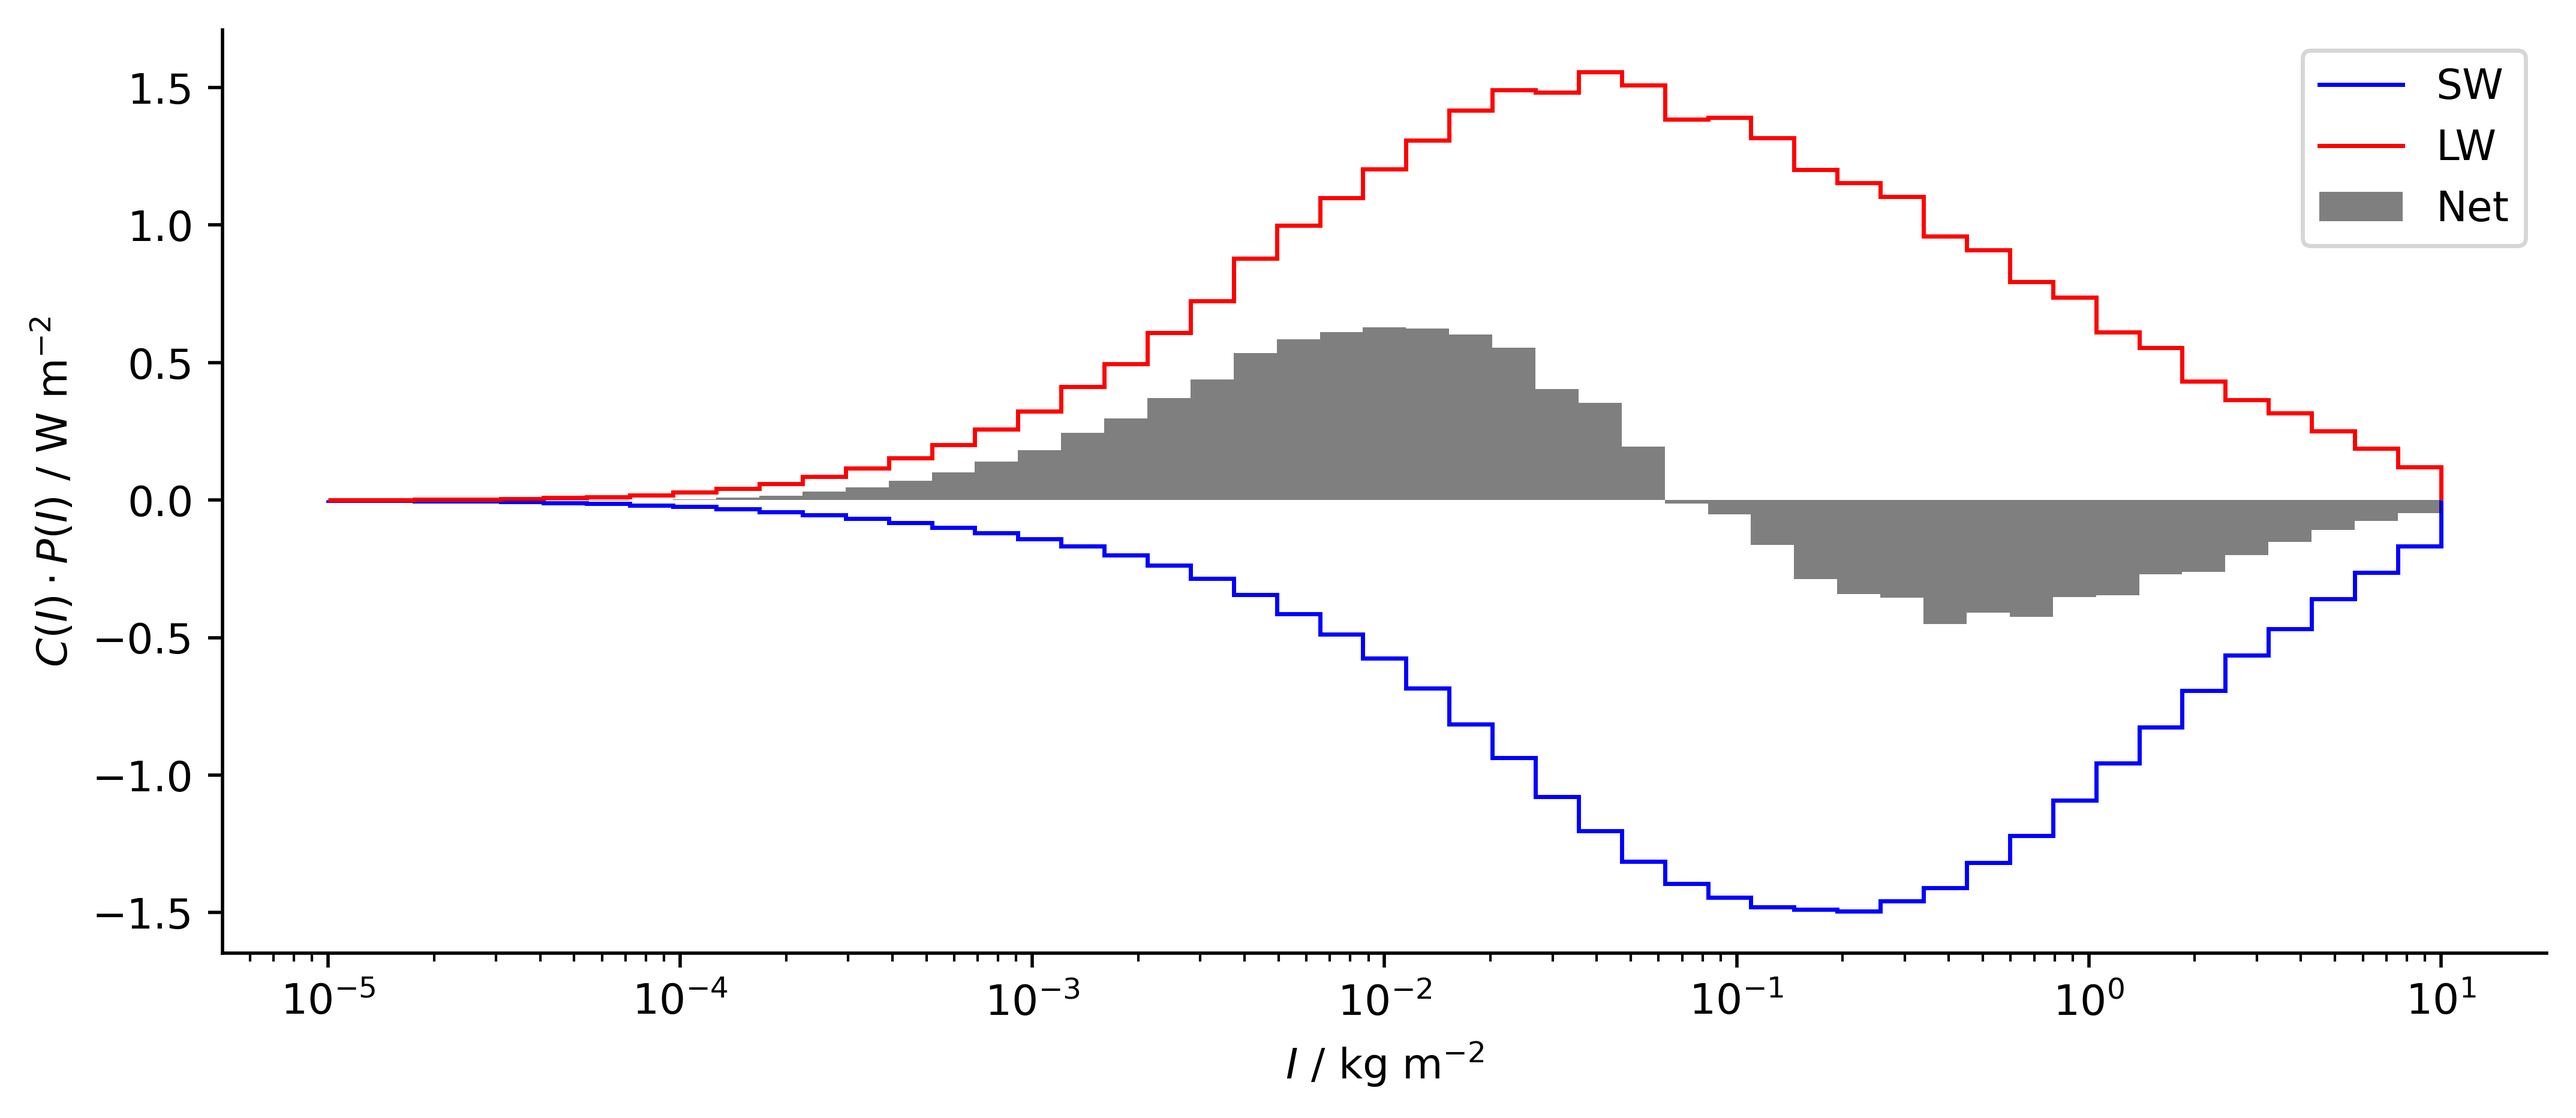
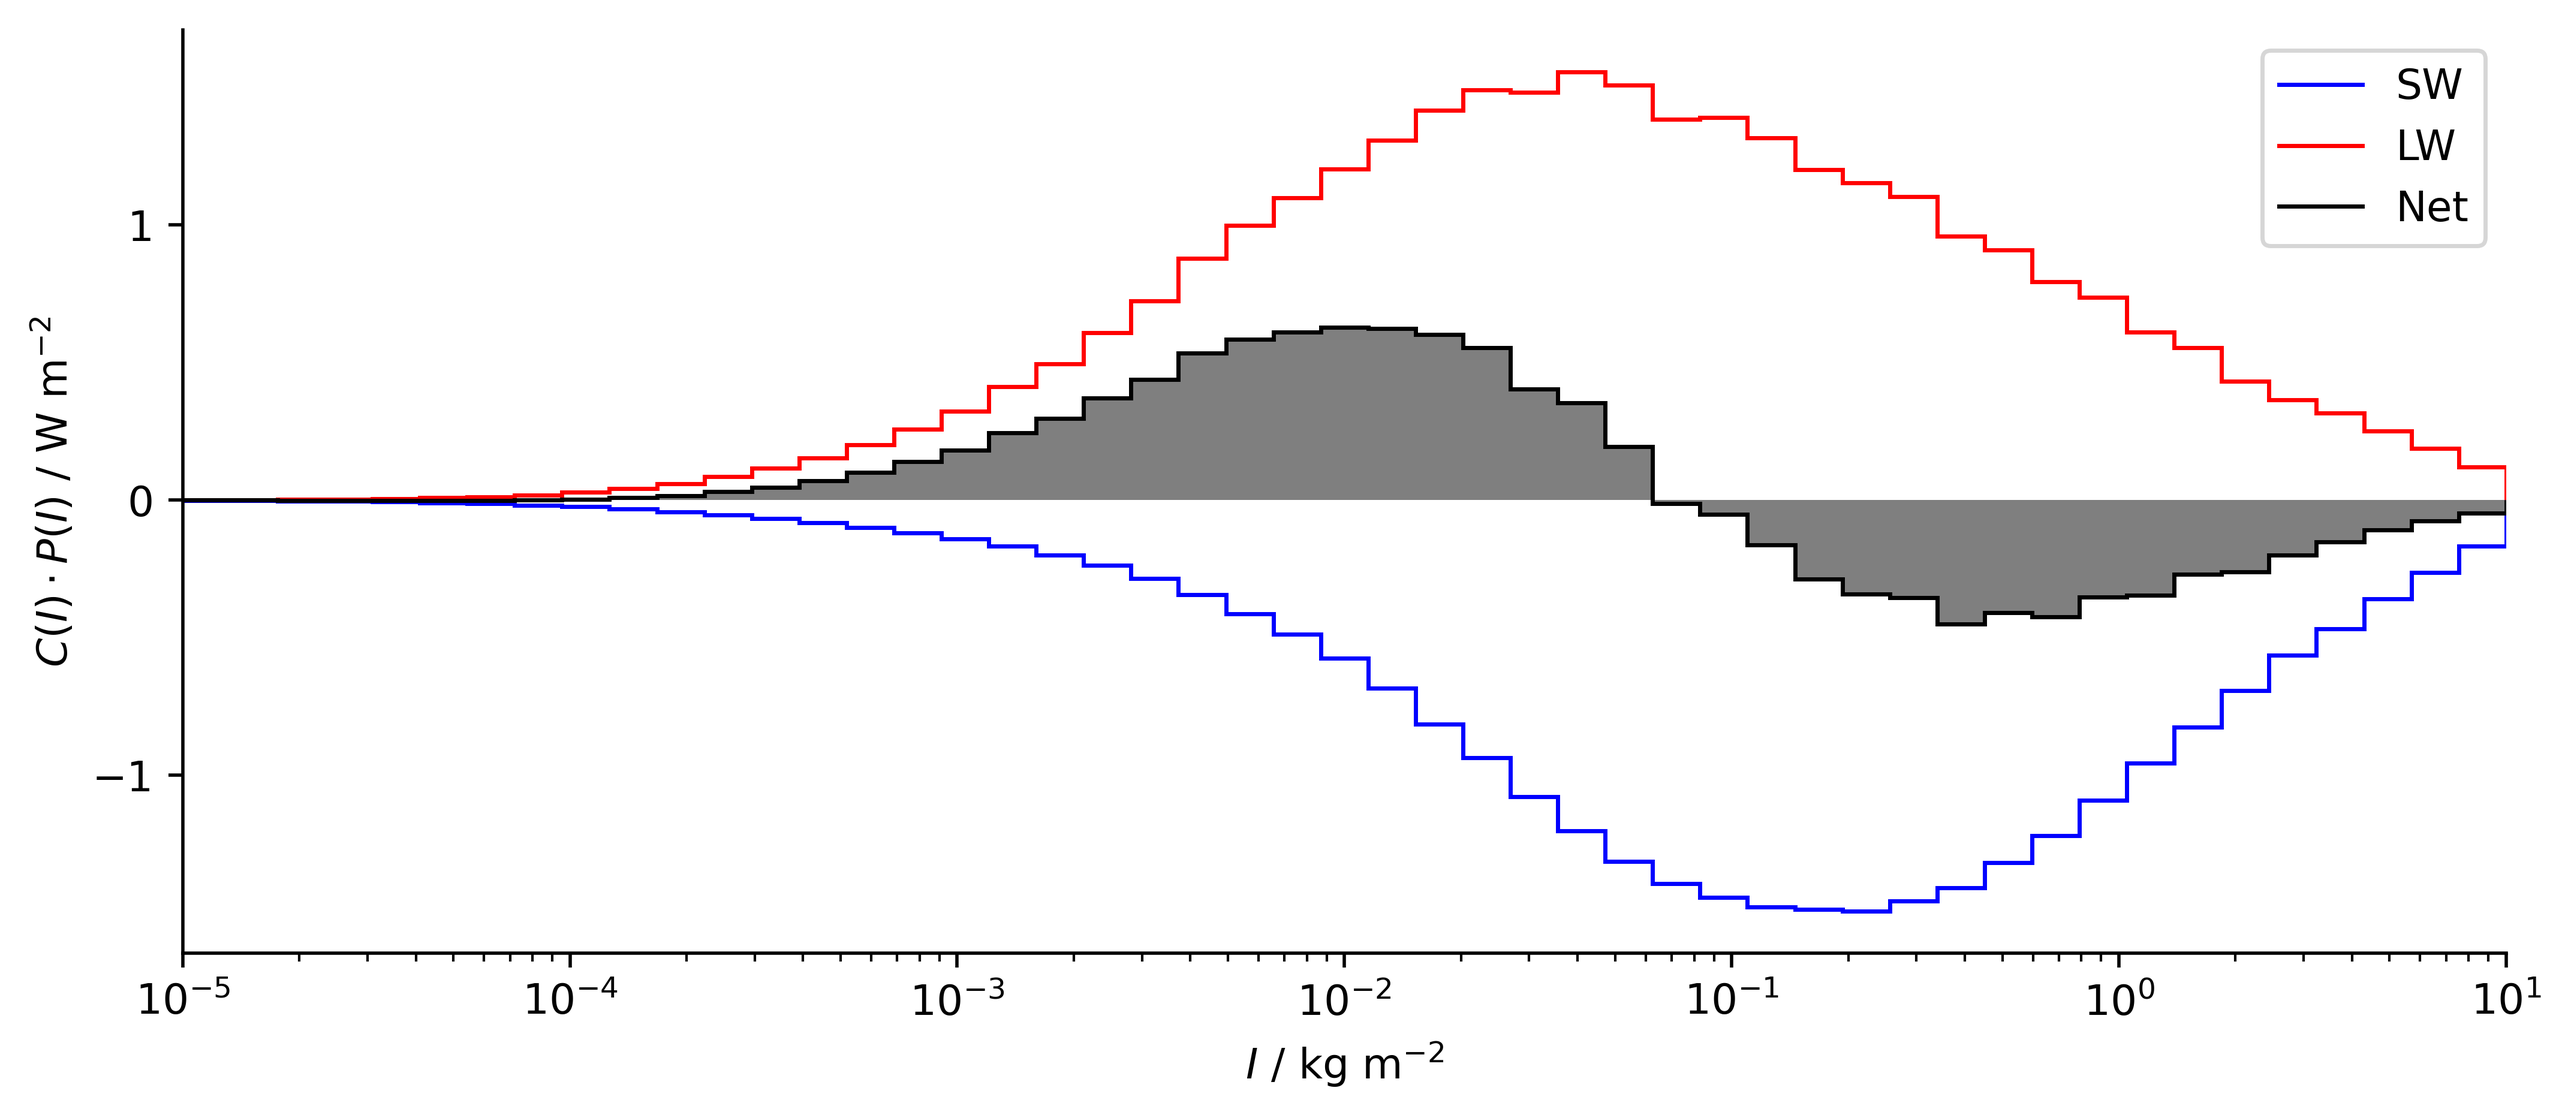
delete weighting of emissivity for fitting, adjust plots, import os for file removal to avoid permission nerrors

diff --git a/scripts/plot/paper/plot_folded_cre.py b/scripts/plot/paper/plot_folded_cre.py
@@ -22,14 +22,65 @@ cre_sw_weighted = hist * result['SW_cre']
 cre_lw_weighted = hist * result['LW_cre']
 cre_net_weighted = cre_sw_weighted + cre_lw_weighted
 
-# %% plot
-fig, ax = plt.subplots(1, 1, figsize=(10, 4))
+# %% plot all three in one figure
+fig, axes = plt.subplots(3, 1, figsize=(10, 6), height_ratios=[1, 1, 2], sharex=True)
+
+# plot cre 
+axes[0].axhline(0, color='grey', linestyle='--')
+axes[0].plot(result.index, result['SW_cre'], label='SW', color='blue')
+axes[0].plot(result.index, result['LW_cre'], label='LW', color='red')
+axes[0].plot(result.index, result['SW_cre'] + result['LW_cre'], label='Net', color='k')
+axes[0].set_yticks([-200, 0, 200])
+axes[0].set_ylabel('$C(I)$ / W m$^{-2}$')
+
+# plot IWP hist
+axes[1].stairs(hist, edges, color='k')
+axes[1].set_yticks([0, 0.02])
+axes[1].set_ylabel('$P(I)$')
+
+
+# plot cre weighted IWP hist
+axes[2].stairs(cre_sw_weighted, IWP_bins, color='blue', label='SW')
+axes[2].stairs(cre_lw_weighted, IWP_bins, color='red', label='LW')
+axes[2].stairs(cre_net_weighted, IWP_bins, color='k', label='Net', fill=True, alpha=0.5)
+axes[2].stairs(cre_net_weighted, IWP_bins, color='k', label='Net')
+axes[2].set_xscale('log')
+axes[2].set_xlabel('$I$ / kg m$^{-2}$')
+axes[2].set_ylabel(r"$C(I) \cdot P(I) ~ / ~ \mathrm{W ~ m^{-2}}$")
+axes[2].set_yticks([-1, 0, 1])
+axes[2].set_xlim(1e-5, 10)
+
+for ax in axes:
+    ax.spines['top'].set_visible(False)
+    ax.spines['right'].set_visible(False)
+
+# legend at bottom with labels from ax 0
+fig.subplots_adjust(bottom=0.1)
+fig.legend(
+    handles=axes[0].lines[1:],
+    labels=['SW', 'LW', 'net'],
+    bbox_to_anchor=(0.5, -0.05),
+    loc='center',
+    frameon=True,
+    ncols=3,
+)
+
+
+fig.savefig("plots/paper/concept_cre_all.png", dpi=500, bbox_inches='tight')
+
+# %% plot just P * C 
+fig, ax = plt.subplots(figsize=(10, 4))
+
+# plot cre weighted IWP hist
 ax.stairs(cre_sw_weighted, IWP_bins, color='blue', label='SW')
 ax.stairs(cre_lw_weighted, IWP_bins, color='red', label='LW')
-ax.stairs(cre_net_weighted, IWP_bins, color='k', label='Net', fill=True, alpha=0.5)
+ax.stairs(cre_net_weighted, IWP_bins, color='k', fill=True, alpha=0.5)
+ax.stairs(cre_net_weighted, IWP_bins, color='k', label='Net')
 ax.set_xscale('log')
 ax.set_xlabel('$I$ / kg m$^{-2}$')
 ax.set_ylabel(r"$C(I) \cdot P(I) ~ / ~ \mathrm{W ~ m^{-2}}$")
+ax.set_yticks([-1, 0, 1])
+ax.set_xlim(1e-5, 10)
 ax.spines['top'].set_visible(False)
 ax.spines['right'].set_visible(False)
 ax.legend()

diff --git a/scripts/plot/paper/lc_sensitivity.py b/scripts/plot/paper/lc_sensitivity.py
@@ -5,6 +5,7 @@ import xarray as xr
 import matplotlib.pyplot as plt
 import pandas as pd
 from src.read_data import load_parameters
+from scipy.stats import linregress
 # %% load data
 path = '/work/bm1183/m301049/iwp_framework/mons/model_output/'
 ensemble = pickle.load(open(path + 'lc_ensemble.pkl', 'rb'))
@@ -13,13 +14,9 @@ parameters = load_parameters()
 
 # %%
 
-def sum_cre(result, sample, iwp_bins, mode='icon'):
+def sum_cre(result, sample, iwp_bins):
 
-    if mode == 'icon':
-        n_cells = (len(sample.cell) * len(sample.time))
-    else:
-        n_cells = len(sample.lat) * len(sample.lon)
-
+    n_cells = sample['IWP'].count().values
     hist, edges = np.histogram(sample["IWP"].where(sample['mask_height']), bins=iwp_bins)
     hist = hist / n_cells
     sum_sw = (result["SW_cre"] * hist).sum()
@@ -37,9 +34,9 @@ IWP_bins = np.logspace(-5, 1, num=50)
 idx = [float(i) for i in list(ensemble.keys())]
 sum_cre_ensemble = pd.DataFrame(index=idx, columns=['SW', 'LW', 'net'])
 for key, result in ensemble.items():
-    sum_cre_ensemble.loc[float(key)]['SW'] = sum_cre(result, sample, IWP_bins, mode='arts')['SW']
-    sum_cre_ensemble.loc[float(key)]['LW'] = sum_cre(result, sample, IWP_bins, mode='arts')['LW']
-    sum_cre_ensemble.loc[float(key)]['net'] = sum_cre(result, sample, IWP_bins, mode='arts')['net']
+    sum_cre_ensemble.loc[float(key)]['SW'] = sum_cre(result, sample, IWP_bins)['SW']
+    sum_cre_ensemble.loc[float(key)]['LW'] = sum_cre(result, sample, IWP_bins)['LW']
+    sum_cre_ensemble.loc[float(key)]['net'] = sum_cre(result, sample, IWP_bins)['net']
 
 # %% plot sum_cre
 fig, ax = plt.subplots(figsize=(5, 4))
@@ -59,7 +56,7 @@ fig.savefig('plots/paper/lc_sensitivity.png', dpi=500, bbox_inches='tight')
 
 
 # %% numbers for lc fraction increase 
-cre = sum_cre_ensemble.iloc[3]['net']
-print(f'Net HCRE for 0.3 low cloud fraction: {cre:.2f} W m^-2')
+increase = (sum_cre_ensemble.loc[0.32]['net'] - sum_cre_ensemble.loc[0.16]['net']) / sum_cre_ensemble.loc[0.16]['net'] * 100
+print(f'Net HCRE increase for doubling of f: {increase:.2f}%')
 
 # %%

diff --git a/scripts/derive_model_relations/calculate_emissivity.py b/scripts/derive_model_relations/calculate_emissivity.py
@@ -8,6 +8,7 @@ from src.plot_functions import scatterplot
 from src.helper_functions import cut_data
 from scipy.optimize import least_squares
 import xarray as xr
+import os
 
 # %% load freddis data
 atms, fluxes_allsky, fluxes_noice = load_atms_and_fluxes()
@@ -58,21 +59,15 @@ nan_mask = ~np.isnan(y)
 x = x[nan_mask]
 y = y[nan_mask]
 
-# prepare weights
-n_cells = len(ds_monsoon.lat) * len(ds_monsoon.lon)
-hist, edges = np.histogram(ds_monsoon["IWP"].where(ds_monsoon["mask_height"]), bins=IWP_bins)
-hist = hist / n_cells
-hist = hist[nan_mask]
-
 #initial guess
-p0 = [3.25181808, -2.27406137]
+p0 = [-2.27406137, 3.25181808]
 
 def logistic(params, x):
     return 1 / (1 + np.exp(-params[1] * (x - params[0])))
 
 
 def loss(params):
-    return ((logistic(params, x) - y) * hist) / hist.sum()
+    return (logistic(params, x) - y) 
 
 res = least_squares(loss, p0)
 logistic_curve = logistic(res.x, np.log10(IWP_points))
@@ -100,11 +95,13 @@ ax.legend()
 # %% save coefficients as pkl file
 path = "/work/bm1183/m301049/iwp_framework/mons/"
 
-lw_vars.to_netcdf(path + "data/lw_vars.nc")
+os.remove(path + "data/lw_vars.nc")
+os.remove(path + "parameters/hc_emissivity_params.pkl")
+os.remove(path + "data/lw_vars_mean.pkl")
 
+lw_vars.to_netcdf(path + "data/lw_vars.nc")
 with open(path + "parameters/hc_emissivity_params.pkl", "wb") as f:
     pickle.dump(np.array([1., res.x[0], res.x[1]]), f)
-
 with open(path + "data/lw_vars_mean.pkl", "wb") as f:
     pickle.dump(mean_lw_vars, f)
 

diff --git a/scripts/plot/paper/cre_comparison.py b/scripts/plot/paper/cre_comparison.py
@@ -92,7 +92,7 @@ weighted_lw_cm = result["LW_cre"] * hist
 weighted_net_cm = weighted_sw_cm + weighted_lw_cm
 
 table_cre = pd.DataFrame(
-    index=["ARTS",  "Concept"], columns=["SW", "LW", "Net", "Net Percent"]
+    index=["ARTS",  "Concept"], columns=["SW", "LW", "Net", "Net Percent", "SW percent", "LW percent"]
 )
 table_cre.loc["ARTS"]["SW"] = np.round(
     float((cre_mean["connected_sw"] * hist).sum().values), 2
@@ -107,7 +107,13 @@ table_cre.loc["Concept"]["SW"] = np.round(float((result["SW_cre"] * hist).sum())
 table_cre.loc["Concept"]["LW"] = np.round(float((result["LW_cre"] * hist).sum()), 2)
 table_cre.loc["Concept"]["Net"] = table_cre.loc["Concept"]["SW"] + table_cre.loc["Concept"]["LW"]
 table_cre.loc["Concept"]["Net Percent"] = np.round(
-    ((table_cre.loc["Concept"]["Net"] - table_cre.loc["ARTS"]["Net"])/table_cre.loc['ARTS']['Net']) * 100, 0
+    ((table_cre.loc["Concept"]["Net"] - table_cre.loc["ARTS"]["Net"])/table_cre.loc['ARTS']['Net']) * 100, 2
+)
+table_cre.loc["Concept"]["SW percent"] = np.round(
+    ((table_cre.loc["Concept"]["SW"] - table_cre.loc["ARTS"]["SW"])/table_cre.loc['ARTS']['SW']) * 100, 2
+)
+table_cre.loc["Concept"]["LW percent"] = np.round(
+    ((table_cre.loc["Concept"]["LW"] - table_cre.loc["ARTS"]["LW"])/table_cre.loc['ARTS']['LW']) * 100, 2
 )
 table_cre
 

diff --git a/scripts/derive_model_relations/calculate_albedo_t_and_R_t.py b/scripts/derive_model_relations/calculate_albedo_t_and_R_t.py
@@ -1,6 +1,7 @@
 # %% import
 import xarray as xr
 import numpy as np
+import os
 import matplotlib.pyplot as plt
 from src.read_data import load_atms_and_fluxes
 from src.plot_functions import scatterplot
@@ -260,14 +261,16 @@ binned_lower_trop_vars["R_t"] = (
 # %% save variables
 path = "/work/bm1183/m301049/iwp_framework/mons/"
 
-lower_trop_vars.to_netcdf(path + "data/lower_trop_vars.nc")
+os.remove(path + "data/lower_trop_vars.nc")
+os.remove(path + "data/lower_trop_vars_mean.pkl")
+os.remove(path + "parameters/C_h2o_params.pkl")
+os.remove(path + "parameters/lower_trop_params.pkl")
 
+lower_trop_vars.to_netcdf(path + "data/lower_trop_vars.nc")
 with open(path + "data/lower_trop_vars_mean.pkl", "wb") as f:
     pickle.dump(binned_lower_trop_vars, f)
-
 with open(path + "parameters/C_h2o_params.pkl", "wb") as f:
     pickle.dump(c_h20_coeffs, f)
-
 with open(path + "parameters/lower_trop_params.pkl", "wb") as f:
     pickle.dump(
         {

diff --git a/scripts/derive_model_relations/calculate_albedo.py b/scripts/derive_model_relations/calculate_albedo.py
@@ -8,6 +8,7 @@ from scipy.interpolate import griddata
 from src.read_data import load_atms_and_fluxes
 from src.plot_functions import scatterplot
 from scipy.optimize import least_squares
+import os
 
 # %% load  data
 atms, fluxes_3d, fluxes_3d_noice = load_atms_and_fluxes()
@@ -158,11 +159,13 @@ plt.show()
 # %% save coefficients as pkl file
 path = '/work/bm1183/m301049/iwp_framework/mons/'
 
-sw_vars.to_netcdf(path + "data/sw_vars.nc")
+os.remove(path + 'data/sw_vars.nc')
+os.remove(path + 'parameters/hc_albedo_params.pkl')
+os.remove(path + 'data/sw_vars_mean.pkl')
 
+sw_vars.to_netcdf(path + "data/sw_vars.nc")
 with open(path + "parameters/hc_albedo_params.pkl", "wb") as f:
     pickle.dump(res.x, f)
-
 with open(path + "data/sw_vars_mean.pkl", "wb") as f:
     pickle.dump(mean_sw_vars, f)
 

diff --git a/scripts/plot/paper/eyecatcher_monsoon.py b/scripts/plot/paper/eyecatcher_monsoon.py
@@ -53,7 +53,7 @@ cb = fig.colorbar(im_iwp, cax=cax, orientation="horizontal", label="IWP / kgm$^{
 cb.set_ticks([1e-4, 1e-3, 1e-2, 1e-1, 1, 10])
 
 fig.tight_layout()
-# fig.savefig("plots/paper/eyecatcher_monsoon.png", dpi=1000, bbox_inches="tight")
+fig.savefig("plots/paper/eyecatcher_monsoon.png", dpi=500, bbox_inches="tight")
 # %% calculate low cloud fraction 
 ds['f'] = ds["LWP"] > 1e-4 
 ds.where(ds['IWP']>1e-5)['f'].mean()
@@ -78,5 +78,5 @@ cax.set_facecolor("grey")
 cb = fig.colorbar(im_iwp, cax=cax, orientation="vertical", label="IWP / kgm$^{-2}$")
 cb.set_ticks([1e-4, 1e-3, 1e-2, 1e-1, 1, 10])
 
-fig.savefig("plots/paper/eyecatcher_monsoon_overlying.png", dpi=1000, bbox_inches="tight")
+fig.savefig("plots/paper/eyecatcher_monsoon_overlying.png", dpi=500, bbox_inches="tight")
 # %%

diff --git a/src/plot_functions.py b/src/plot_functions.py
@@ -742,11 +742,11 @@ def plot_model_output_arts_with_cre(
 
     # lc fraction
     ax3 = fig.add_subplot(6, 2, 3)
-    ax3.plot(IWP_points, f_lc_vals["raw"], label=r"Mean $f_{\mathrm{all}}$", color="grey")
+    ax3.plot(IWP_points, f_lc_vals["raw"], label=r"LWP > $10^{-4} ~ \mathrm{kg ~ m^{-2}}$", color="grey")
     ax3.plot(
         IWP_points,
         f_lc_vals["unconnected"],
-        label=r"Mean $f_{\mathrm{uncon}}$",
+        label=r"$f(I)$",
         color="purple",
         linestyle="--",
     )
@@ -757,7 +757,7 @@ def plot_model_output_arts_with_cre(
         label=r"$f$",
     )
     ax3.legend()
-    ax3.set_ylabel(r"Low Cloud Fraction")
+    ax3.set_ylabel(r"Low-Cloud Fraction")
     ax3.set_yticks([0, 0.5, 1])
 
     # alpha

diff --git a/scripts/plot/paper/cloud_profile_iwp.py b/scripts/plot/paper/cloud_profile_iwp.py
@@ -103,7 +103,7 @@ axes[1].plot(
 axes[1].plot(
     cre_mean.IWP,
     cre_mean["connected_net"],
-    label="Net",
+    label="net",
     color="k",
     linestyle="-",
 )
@@ -117,10 +117,12 @@ axes[1].set_ylabel("$C(I)$ / W m$^{-2}$")
 # plot IWP dist
 axes[2].stairs(hist, edges, label="IWP", color="black")
 axes[2].set_ylabel("$P(I)$")
+axes[2].set_yticks([0, 0.02])
 
 # plot P time C 
 P_times_C = hist * cre_mean["connected_net"]
-axes[3].fill_between(cre_mean.IWP, P_times_C, 0, step='pre', color='grey')
+axes[3].stairs(P_times_C, IWP_bins_cre, color="k", fill=True, alpha=0.5)
+axes[3].stairs(P_times_C, IWP_bins_cre, color="k")
 axes[3].set_ylabel("$P(I) ~ \cdot ~ C(I)$ / W m$^{-2}$")
 
 # add colorbar

diff --git a/scripts/process_data/process_atms_and_fluxes_mons.py b/scripts/process_data/process_atms_and_fluxes_mons.py
@@ -8,7 +8,7 @@ from src.calc_variables import (
     calc_connected,
     change_convention,
 )
-
+import os 
 # %% setting
 rename = False
 convention = "arts"
@@ -61,8 +61,11 @@ fluxes_noice = change_convention(fluxes_noice)
 
 # %% save
 path = "/work/bm1183/m301049/iwp_framework/mons/data/"
+os.remove(path + "atms_proc.nc")
 sample.to_netcdf(path + "atms_proc.nc")
+os.remove(path + "fluxes_allsky_proc.nc")
 fluxes_allsky.to_netcdf(path + "fluxes_allsky_proc.nc")
+os.remove(path + "fluxes_noice_proc.nc")
 fluxes_noice.to_netcdf(path + "fluxes_noice_proc.nc")
 
 # %%

diff --git a/scripts/model_runs/icon_mons.py b/scripts/model_runs/icon_mons.py
@@ -7,6 +7,7 @@ from src.read_data import (
 )
 from src.helper_functions import cut_data
 import pickle
+import os 
 
 # %% load data
 atms, fluxes_3d, fluxes_3d_noice = load_atms_and_fluxes()
@@ -34,6 +35,7 @@ result = run_model(
 )
 # %% save result 
 path = '/work/bm1183/m301049/iwp_framework/mons/model_output/'
+os.remove(path + 'prefinal.pkl')
 with open(path + 'prefinal.pkl', 'wb') as f:
     pickle.dump(result, f)
 # %%

diff --git a/scripts/derive_model_relations/calculate_cre.py b/scripts/derive_model_relations/calculate_cre.py
@@ -127,7 +127,9 @@ cre_interpolated_average_xr["ice_over_lc_lw"] = xr.DataArray(
 cre_interpolated_average_xr = cre_interpolated_average_xr.assign_coords({"IWP_bins": IWP_bins})
 
 path = "/work/bm1183/m301049/iwp_framework/mons/data/"
+os.remove(path + "cre_binned.nc")
 cre_binned_xr.to_netcdf(path + "cre_binned.nc")
+os.remove(path + "cre_mean.nc")
 cre_interpolated_average_xr.to_netcdf(path + "cre_mean.nc")
 
 
